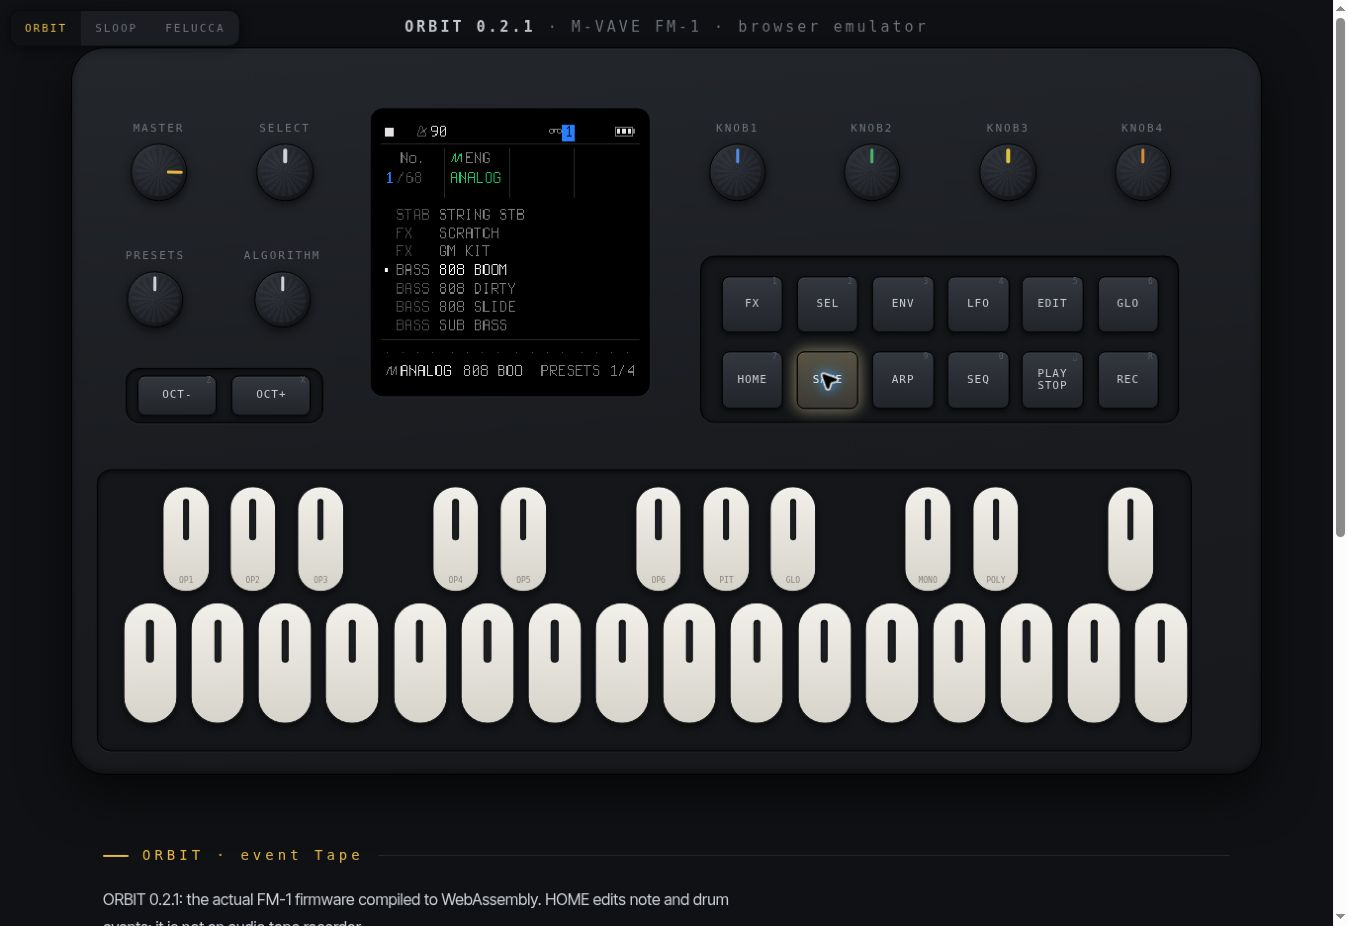
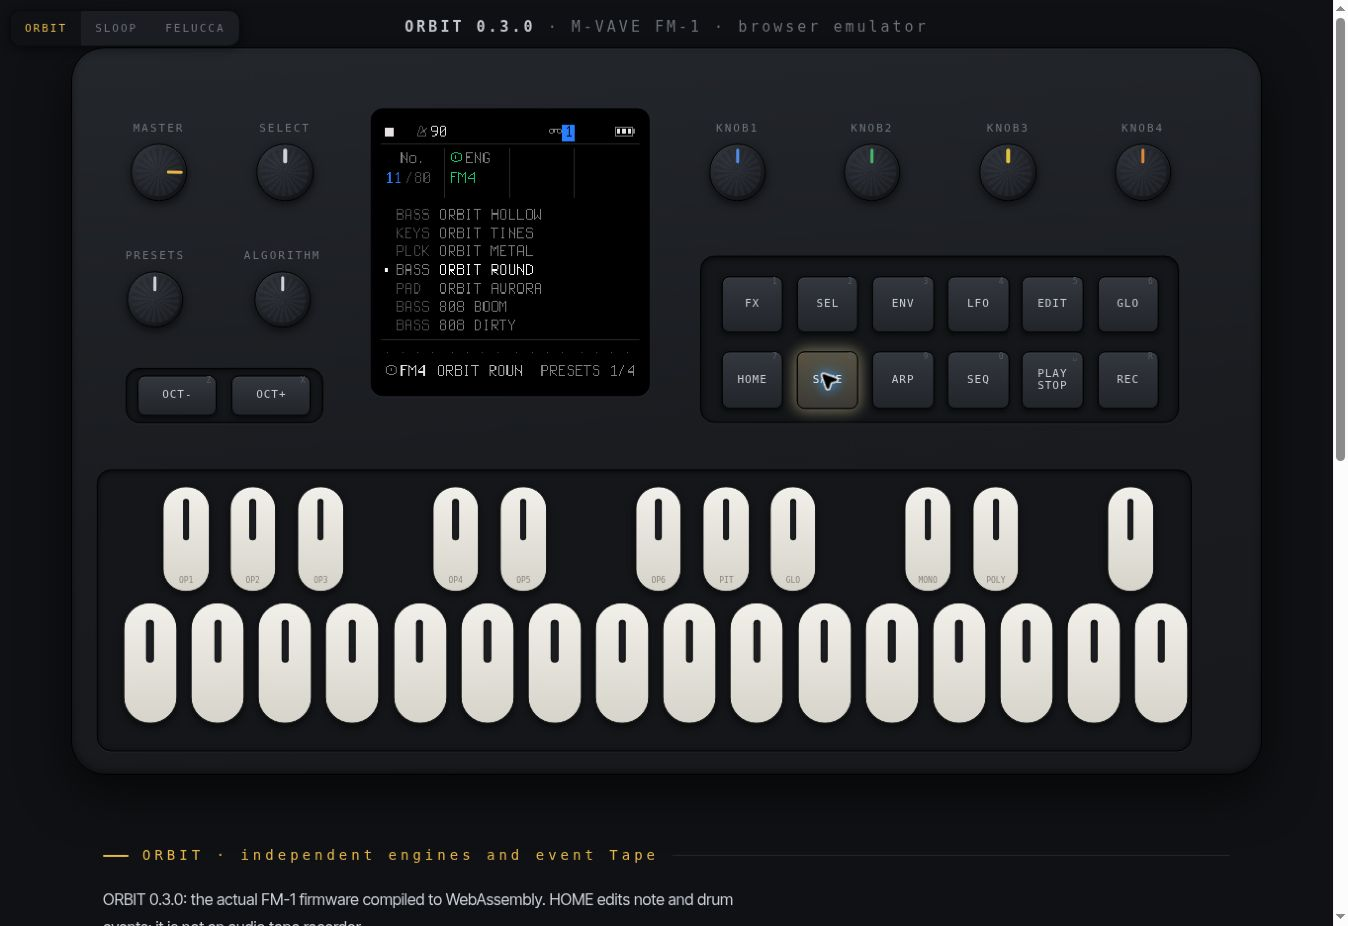
Document live ORBIT 0.3.0 browser validation with updated preset capture

diff --git a/README.md b/README.md
@@ -65,7 +65,9 @@ HOME now briefly displays the engine and actual loaded preset when PRESETS is tu
 - WebAssembly smoke test: PASS; module size 1,064,302 bytes, no imports.
 - Actual synth output: finite, non-silent PCM; observed peak 0.5752.
 - Flash: 458,752-byte image, 15 storage writes, restored image preserved across boot.
-- Browser AudioWorklet boot, HOME rendering and quick SAVE tap into the PRESETS list: verified on the published site.
+- Published ORBIT 0.3.0 browser AudioWorklet boot and quick SAVE tap into the 80-sound PRESETS list: verified. Versioned asset URLs prevent stale JavaScript/DSP caches.
+
+![Published ORBIT 0.3.0 preset list](docs/orbit-web-presets.jpg)
 
 ![Actual ORBIT WebAssembly HOME framebuffer](docs/orbit-wasm-home.png)
 
